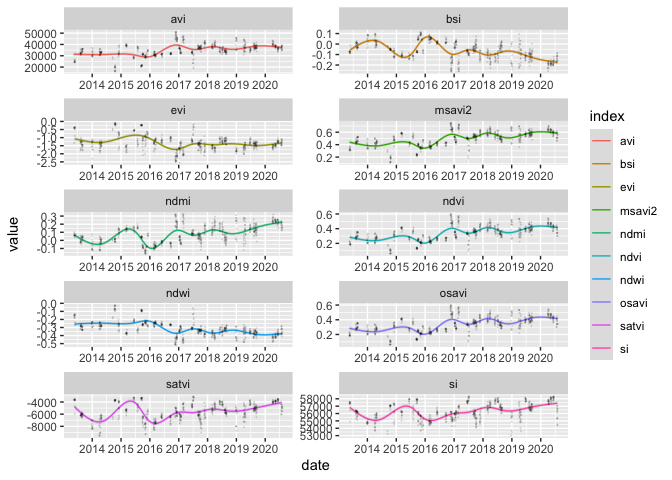
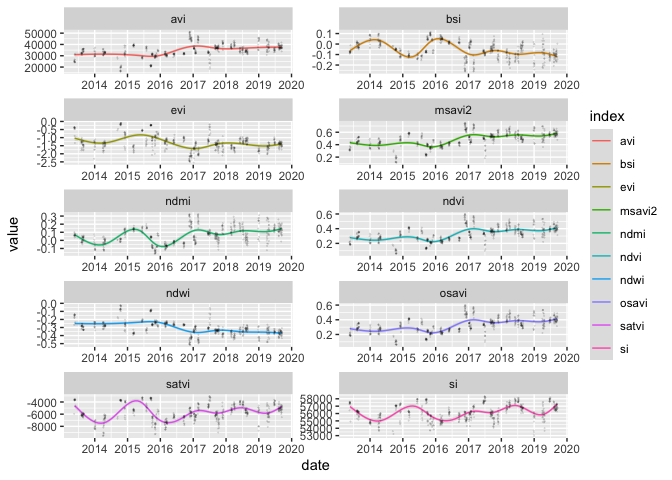
added start.date and end.date to readme

diff --git a/README.md b/README.md
@@ -23,24 +23,24 @@ Here we login to [Google Earth Engine](https://earthengine.google.com/)
 using a gmail account.
 
 ``` r
-ee_Initialize(email='insert.your@gmail.com', drive=T)
+ee_Initialize(email='insert.yours@gmail.com', drive=T)
 ```
 
     ## ── rgee 1.0.6 ─────────────────────────────────────────────────── earthengine-api 0.1.232 ── 
-    ##  ✓ email: random@gmail.com 
+    ##  ✓ email: yours@gmail.com 
     ##  ✓ Google Drive credentials: ✓ Google Drive credentials:  FOUND
     ##  ✓ Initializing Google Earth Engine: ✓ Initializing Google Earth Engine:  DONE!
-    ##  ✓ Earth Engine user: users/random 
+    ##  ✓ Earth Engine user: users/you
     ## ────────────────────────────────────────────────────────────────────────────────────────────
 
 Now we use the function `shpToEE()` to convert a shapefile into a Google
 Earth Engine Object and store it an object called `ee.geometry`.
 
 ``` r
-ee.geometry <- shpToEE(shapefile="~/Dropbox/shapefile.shp")
+ee.geometry <- shpToEE(shapefile="~/Dropbox/Science/reNature/reSenseLocal/earth engine/data/hudson.shp")
 ```
 
-    ## Reading layer `hudson' from data source `/Users/user/Dropbox/shapefile.shp' using driver `ESRI Shapefile'
+    ## Reading layer `hudson' from data source `/Users/pedroblayaluz/Dropbox/Science/reNature/reSenseLocal/earth engine/data/hudson.shp' using driver `ESRI Shapefile'
     ## Simple feature collection with 1 feature and 1 field
     ## geometry type:  POLYGON
     ## dimension:      XY
@@ -52,7 +52,9 @@ gather all available Landsat-8 multispectral images for `ee.geometry`
 and also calculate the respective Vegetation Indices.
 
 ``` r
-landsat.df <- senseLandsat(ee.geometry=ee.geometry)
+landsat.df <- senseLandsat(ee.geometry=ee.geometry,
+                           start.date='2013-01-01',
+                           end.date='2020-01-01')
 ```
 
     ## [1] "|=================================================| 100%"
